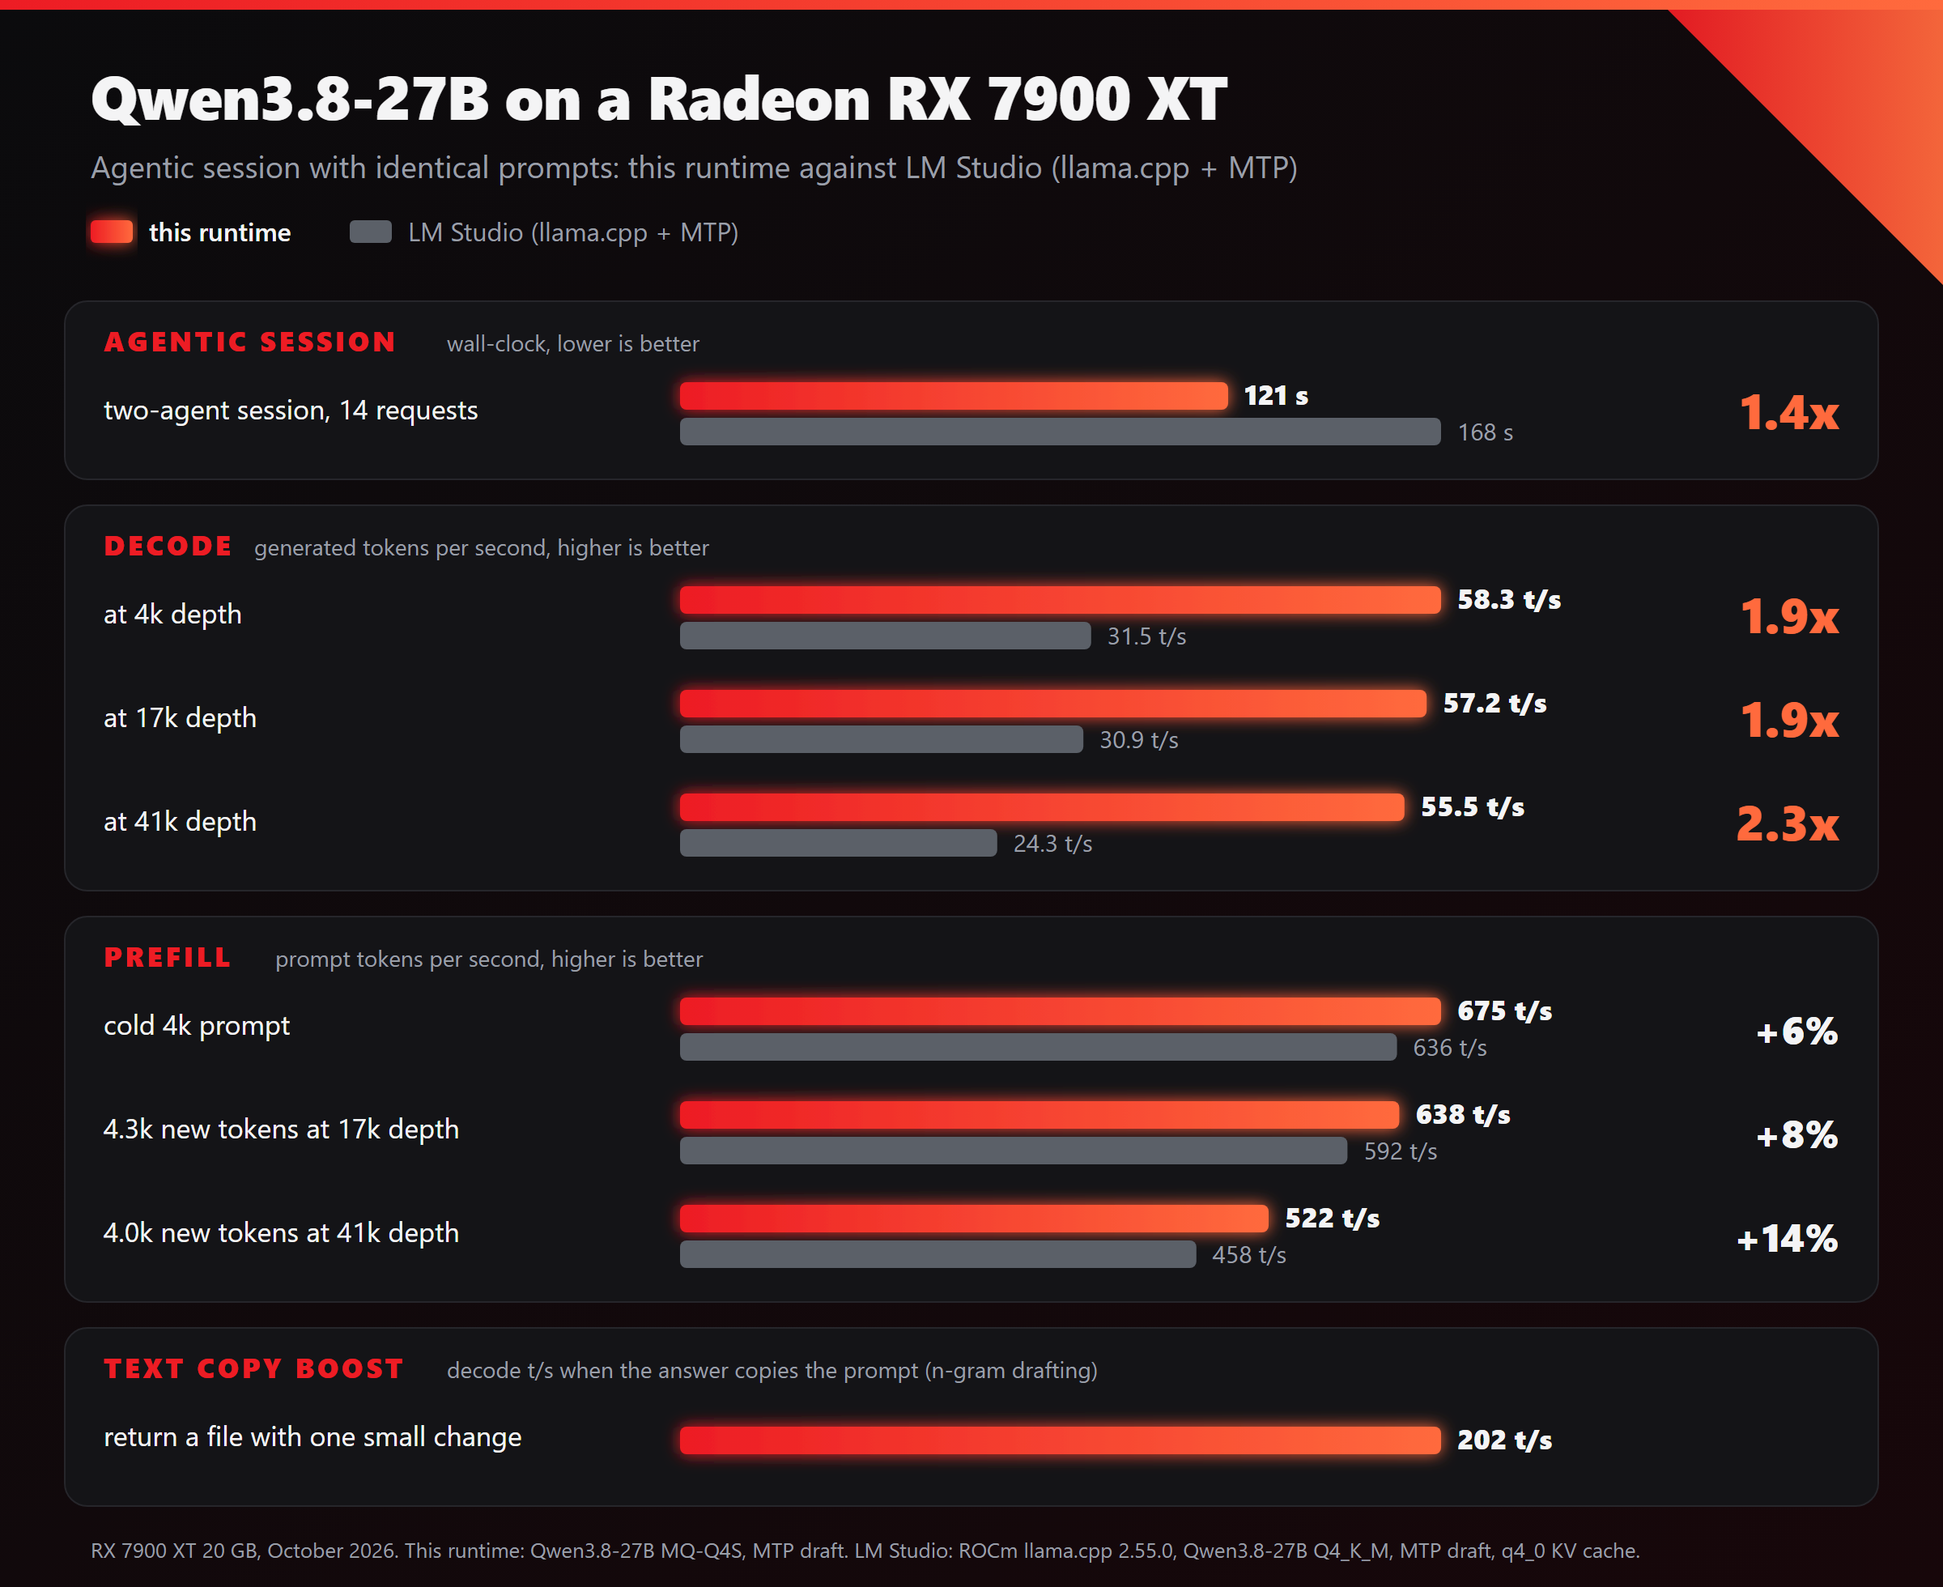
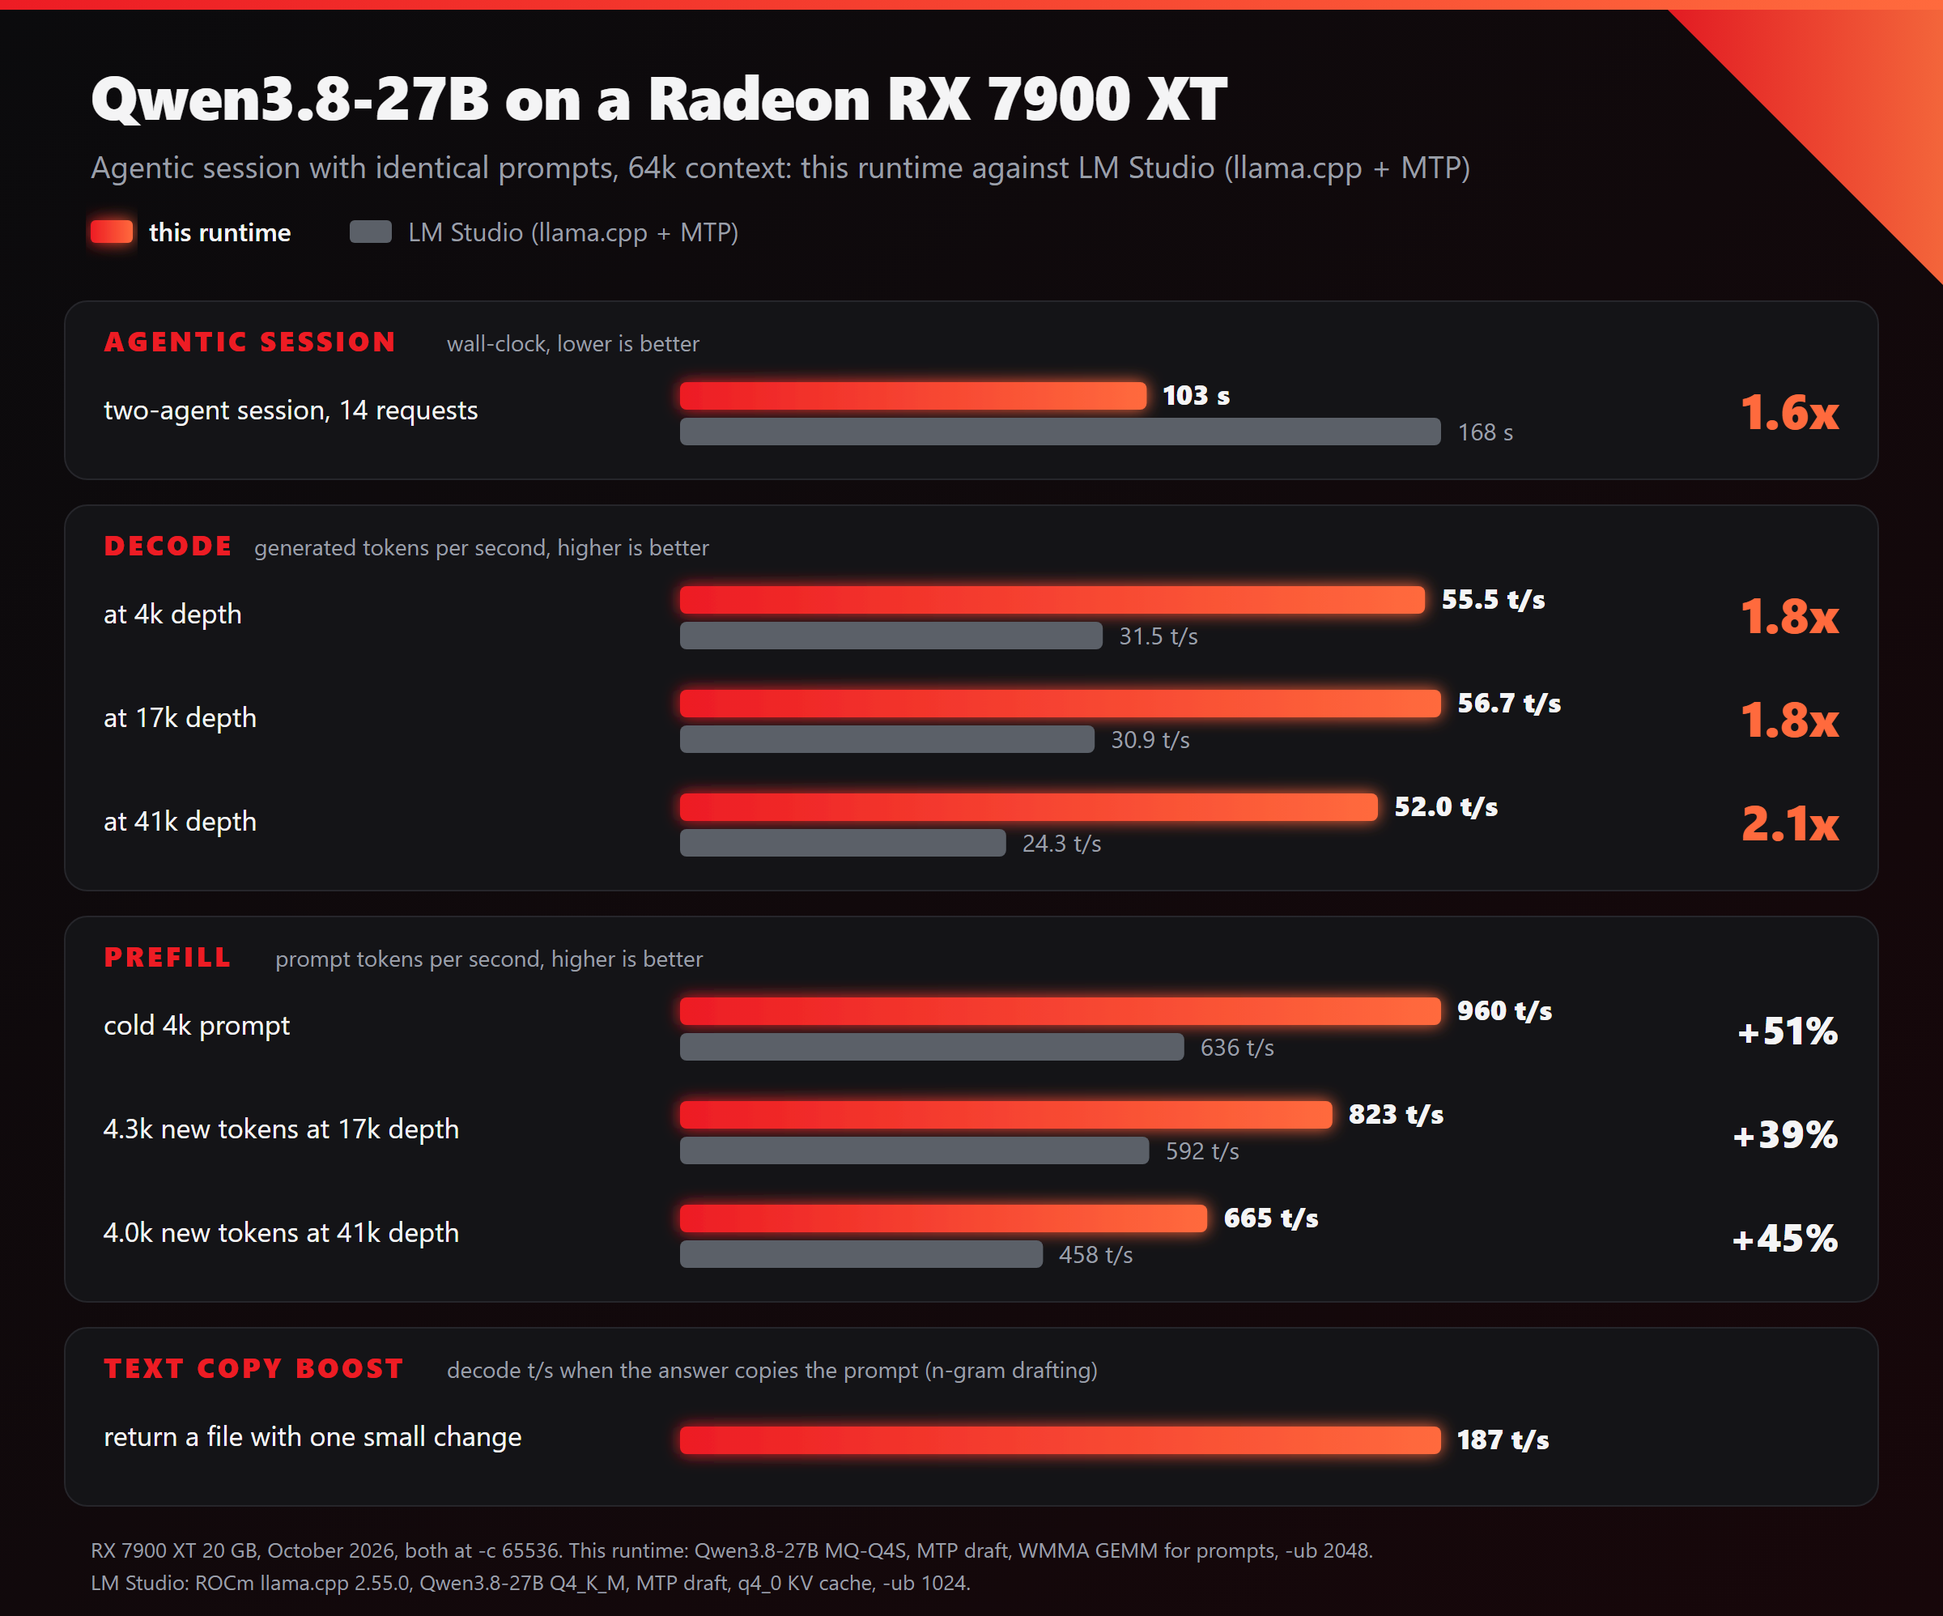
README: RDNA-FAST agent server; WMMA GEMM, 64k chart, 96k context
- new name and banner: RDNA-FAST agent server, built on ROCmFPX and llama.cpp
- highlight and section for the WMMA GEMM path, with its flags and env rows
- chart at -c 65536 -ub 2048, the context LM Studio ran at: session 103 s
  against 168 s, prefill 960 / 823 / 665 t/s, decode 55.5 / 56.7 / 52.0; the
  table also shows -c 106496 -ub 1024 (107 s)
- text copy boost 187 t/s as measured now, the n-gram shadow gate described
- recommended context 98304: 0.7 GB paged instead of 0.8 at 106496

diff --git a/README.md b/README.md
@@ -1,21 +1,29 @@
-![ROCmFPX — Max Performance. Open Power.](media/rocmfpx-banner.png)
+![RDNA-FAST — Agent server. Built for speed.](media/rdna-fast-banner.png)
 
-# Qwen3.8-27B for agents on a Radeon RX 7900 XT / XTX
+# RDNA-FAST agent server
 
-A light-speed `llama-server` runtime for **Qwen3.8-27B on a 20 GB RX 7900 XT**, built
-for **agentic work**: long tool-calling sessions, several agents sharing one
-GPU, ideal for Hermes.
+**Qwen3.8-27B for agents on a Radeon RX 7900 XT / XTX.** A light-speed
+`llama-server` runtime for **Qwen3.8-27B on a 20 GB RX 7900 XT**, built for
+**agentic work**: long tool-calling sessions, several agents sharing one GPU,
+ideal for Hermes. Built on [ROCmFPX](https://github.com/ROCmFPX/ROCmFPX) (its
+FP4/FP6 weight formats) and [llama.cpp](https://github.com/ggml-org/llama.cpp).
 
 
 ## Highlights
 
 - **Quicker agentic loops than LM Studio on the same card.** A two-agent session takes
-  121 s here, 168 s on stock llama.cpp with its MTP draft and 17.7 min without
-  it; decode is about twice as fast. [Numbers](#speed)
+  103 s here at the same 64k context (107 s at 106k),
+  168 s on stock llama.cpp with its MTP draft and 17.7 min without it; decode is
+  about twice as fast. [Numbers](#speed)
 - **Faster prefill AND decode.** The model's own MTP head drafts four tokens ahead: 50 t/s
   on prose and 73 t/s on code, against 35 t/s without it. Text copy boost: code
-  edits that copy the prompt run at about 200 t/s through n-gram drafting.
-- **100k tokens of context on a 20 GB card.** With Swift 1.5, a Qwen3.8-27B
+  edits that copy the prompt run at about 187 t/s through n-gram drafting.
+- **Prompts on the matrix cores at full speed.** Prompt-sized products of the FP4/FP6
+  weights run through a WMMA GEMM ([rocm_wmma_gemm](https://github.com/adelj88/rocm_wmma_gemm)
+  by Adel Johar) instead of the int8 path: 1.3-1.5x per product, cold prompts
+  +35% at 17k and +31% at 41k (923 and 815 t/s). Gated to gfx1100 and gfx1151.
+  [More](#prompts-through-a-wmma-gemm)
+- **96k tokens of context on a 20 GB card.** With Swift 1.5, a Qwen3.8-27B
   fine-tune, in our high-quality mixed Q4 quant at `reasoning_effort: low`: 25 of
   26 replayed turns of our own agent chats, 13.5 s per reply at the median.
   [Recipe](docs/rocmfpx/swift-1.5-qwen3.8-27b-mq-q4s.md)
@@ -48,19 +56,22 @@ Against stock llama.cpp on the same card: one scripted two-agent session with
 identical prompts (14 requests; an orchestrator grows from 4k to 41k tokens, a
 10k-token worker is called twice in between):
 
-| | stock llama.cpp | stock + MTP draft | this runtime |
-|---|---:|---:|---:|
-| **the session, wall-clock** | **1,065 s** | **168 s** | **121 s** |
-| prefill t/s, cold 4k prompt | 174 | 636 | 675 |
-| prefill t/s, 4.3k new tokens at 17k depth | 67 | 592 | 638 |
-| prefill t/s, 4.0k new tokens at 41k depth | 32 | 458 | 522 |
-| decode t/s at 4k depth | 32.3 | 31.5 | 58.3 |
-| decode t/s at 17k depth | 17.8 | 30.9 | 57.2 |
-| decode t/s at 41k depth | 10.6 | 24.3 | 55.5 |
-| decode t/s, text copy boost: code edit that copies the prompt | | | 202 |
+| | stock llama.cpp | stock + MTP draft | this runtime, 64k | this runtime, 106k |
+|---|---:|---:|---:|---:|
+| **the session, wall-clock** | **1,065 s** | **168 s** | **103 s** | **107 s** |
+| prefill t/s, cold 4k prompt | 174 | 636 | 960 | 882 |
+| prefill t/s, 4.3k new tokens at 17k depth | 67 | 592 | 823 | 800 |
+| prefill t/s, 4.0k new tokens at 41k depth | 32 | 458 | 665 | 639 |
+| decode t/s at 4k depth | 32.3 | 31.5 | 55.5 | 55.3 |
+| decode t/s at 17k depth | 17.8 | 30.9 | 56.7 | 55.1 |
+| decode t/s at 41k depth | 10.6 | 24.3 | 52.0 | 52.1 |
+| decode t/s, text copy boost: code edit that copies the prompt | | | 187 | 187 |
 
 <sub>October 2026. Stock is LM Studio's ROCm llama.cpp runtime 2.55.0 with
-`Qwen3.8-27B-Q4_K_M`, flash attention, a q4_0 KV cache and two sessions. The
+`Qwen3.8-27B-Q4_K_M`, flash attention, a q4_0 KV cache, two sessions,
+`-c 65536` and batch 2048 / 1024. This runtime at the same context with
+`-b 2048 -ub 2048` (the chart, mean of two runs), and at `-c 106496 -ub 1024`
+(mean of four runs), where `-ub 2048` does not fit. The
 edit row is the text copy boost, n-gram drafting (95 t/s without it); it was
 not measured on LM Studio.</sub>
 
@@ -78,8 +89,8 @@ Deep in a conversation, and on cold prompts at temperature 0:
 |---|---:|---:|
 | decode t/s at that depth | 54.7 | 55.9 |
 | decode t/s, verbatim copy of a passage | | 124 |
-| prefill t/s, cold prompt, average over the prompt | 679 | 621 |
-| the same without the MTP draft | 701 | 640 |
+| prefill t/s, cold prompt, average over the prompt | 923 | 815 |
+| the same with the int8 path for prompts (`ROCMFPX_WMMA_GEMM=0`) | 682 | 621 |
 
 Real agent traffic by context depth:
 
@@ -129,7 +140,7 @@ set GGML_HIP_FA_GQA6=1
 
 llama-server -m Swift-1.5-Qwen3.8-27B-ROCMFPX-MQ-Q4S.gguf --mmproj mmproj-Qwen3.8-27B-f16.gguf ^
   -dev ROCm0 -ngl 999 -fa on --jinja --load-mode dio --gpu-keepalive-ms 2000 ^
-  -c 106496 -np 2 --kv-unified --kv-unified-reserve 12288 --no-cache-idle-slots ^
+  -c 98304 -np 2 --kv-unified --kv-unified-reserve 12288 --no-cache-idle-slots ^
   -ctk q4_0 -ctv q4_0 -ctkd q4_0 -ctvd q4_0 -b 2048 -ub 1024 --no-mmproj-offload ^
   --ctx-checkpoints 8 --checkpoint-min-step 2048 ^
   --cache-ram 0 --cache-disk D:\llama-cache --cache-disk-limit 65536 --cache-disk-checkpoints 4 ^
@@ -146,13 +157,13 @@ Flags:
 
 | flag | why |
 |---|---|
-| `-c 106496`, `-ctk q4_0 -ctv q4_0` | what a 20 GB card holds with these settings: 18.9 GB resident, nothing paged. KV costs ~18 KB/token. Whatever does not fit, Windows silently pages to system RAM. |
+| `-c 98304`, `-ctk q4_0 -ctv q4_0` | about what a 20 GB card holds with these settings: 18.7 GB resident, 0.7 GB paged. KV costs ~18 KB/token. Whatever does not fit, Windows silently pages to system RAM; at 106,496 (18.9 GB + 0.8 GB paged) cold prompts are 2-3% slower than at 65,536, which pages nothing. |
 | `-np 2 --kv-unified --kv-unified-reserve 12288` | two slots share one pool instead of splitting it. The reserve admits a second request only while both can still generate 12k tokens, else it waits in the queue. See [Several slots on one GPU](#several-slots-on-one-gpu). |
 | `--no-cache-idle-slots` | keeps the idle conversation resident; the default saves and clears it at every new task, which leaves one live conversation. |
 | `--no-mmproj-offload` | the 0.9 GB vision projector was the whole paged share at two slots. Images cost 7-12 s to the first token instead of 3-5 s. |
-| `-ub 1024` | prefill +6% at 17k and +11% at 41k over 256, for 0.3 GB more VRAM; 512 gives +4% and +8% for 0.1 GB. Decode does not change with it (55.7 against 56.0 t/s on identical text). |
+| `-ub 1024` | prefill +6% at 17k and +11% at 41k over 256, for 0.3 GB more VRAM; 512 gives +4% and +8% for 0.1 GB. Decode does not change with it (55.7 against 56.0 t/s on identical text). The WMMA GEMM for prompts takes batches of 512 tokens or more only, so at `-ub 256` it never runs. `-ub 2048` does not fit beside `-c 106496` on 20 GB (2.3 GB paged, prefill falls to 162 t/s); at `-c 65536` it fits but gains only 1-2% on cold prompts (949 / 836 against 932 / 821 t/s at 17k / 41k). |
 | `--spec-type draft-mtp`, `--spec-draft-n-max 4` | +45% decode on prose, +112% on code, for about 0.7 GB of VRAM and 3% of prefill speed. The draft head has its own KV cache; for prompt tokens only its K and V are computed, nothing else of the block is ever read. |
-| `--spec-type "...,ngram-map-k4v"` | text copy boost: n-gram drafting in front of MTP. Where the last tokens repeat an earlier place of the context, the continuation found there is drafted, otherwise MTP drafts as before. A draft has 4 tokens until four in a row were accepted in full, then up to 24, so a match that is only a phrase or a path costs no checkpoint. Code edits that copy the prompt 95 -> 202 t/s, a verbatim copy at 41k 83 -> 124 t/s. Quote the value in a .cmd file: cmd splits arguments at commas. |
+| `--spec-type "...,ngram-map-k4v"` | text copy boost: n-gram drafting in front of MTP. Where the last tokens repeat an earlier place of the context, the continuation found there is drafted, otherwise MTP drafts as before. Each match first makes a 4-token probe that is not sent: MTP drafts that pass, and the probe is scored against what comes out. Once six probes in a row would have been accepted in full, n-gram drafts of up to 24 tokens replace MTP until one is not accepted in full, so a match that is only a phrase or a path costs neither a pass nor a checkpoint. On two days of agent traffic (783 requests) this saved 4.6-6.0% of decode time, and 5-6% of the requests came out slower, against 12-40% when the probes were sent. Code edits that copy the prompt 95 -> 187 t/s, a verbatim copy at 41k 83 -> 124 t/s. Quote the value in a .cmd file: cmd splits arguments at commas. |
 | `--no-spec-ngram-map-ramp` | not set here. Full-length n-gram drafts (48 tokens) from the first match: 268 t/s on code edits and 180 t/s on the copy at 41k, but slower on answers that only share phrases with the context, where a wrong long draft costs a checkpoint restore and a replay pass. |
 | `--ctx-checkpoints 8` | kept in host RAM, ~200 MiB each. When the list is full, the one whose removal leaves the smallest gap is dropped; the one at the first user message never is. |
 | `--cache-disk` | conversations and their checkpoints are kept on SSD. See [The SSD prompt cache](#the-ssd-prompt-cache). |
@@ -170,7 +181,10 @@ Environment variables:
 | `LLAMA_MAX_QUEUED=3` | a request is rejected once three are already waiting, so a client can fall back to another server instead of queueing. |
 | `ROCMFPX_DRAFT_VOCAB=24576` | a drafted token is scored against 24,576 candidate tokens instead of all 248,320: half fixed, half the main model's own top tokens at the previous position, per slot. The main model still verifies each drafted token against the full vocabulary. Measured at 16,384: 0.12 ms instead of 1.9 ms per drafted token, decode +9% on a short context and +3 to 5% at 41k, a verbatim copy drafts slightly less (acceptance 0.99 to 0.96), ordinary text the same. 24,576 accepts 3.50 drafted tokens per verify pass against 3.43 at 16,384, at the same speed. |
 | `GGML_HIP_FA_GQA6=1` | attention for decode batches of 1 to 5 tokens: one GPU block per KV head with all six of its query heads, instead of three groups of two and a batch padded to 8. Decode +10 to 12% at 41k, +2 to 6% at 17k, nothing at a short context. Qwen3.5/3.8-27B on RDNA only (head size 256, 24 query heads on 4 KV heads). |
-| `ROCMFPX_MTP_LEAN_RESERVE` | not set here, on by default: the MTP draft context reserves memory for the two shapes it runs (the K/V-only pass over prompt tokens and a one-token draft step), 80 MiB instead of 784 MiB, which is what lets `-c 106496` fit. `=0` restores the full reserve. |
+| `ROCMFPX_MTP_LEAN_RESERVE` | not set here, on by default: the MTP draft context reserves memory for the two shapes it runs (the K/V-only pass over prompt tokens and a one-token draft step), 80 MiB instead of 784 MiB, which is what lets `-c 98304` fit. `=0` restores the full reserve. |
+| `ROCMFPX_NGRAM_SHADOW`, `ROCMFPX_NGRAM_PROBES` | not set here: `ROCMFPX_NGRAM_SHADOW=0` sends the n-gram probes in place of MTP's draft instead of scoring them in the background, `ROCMFPX_NGRAM_PROBES` sets how many probes in a row must hold before long n-gram drafts start (6). |
+| `ROCMFPX_WMMA_GEMM` | not set here, on by default on gfx1100 and gfx1151: prompt-sized FP4/FP6 products through the WMMA GEMM. `=0` turns it off. See [Prompts through a WMMA GEMM](#prompts-through-a-wmma-gemm). |
+| `ROCMFPX_WMMA_GEMM_MIN_BATCH`, `ROCMFPX_WMMA_GEMM_SCRATCH_MB` | not set here: the smallest batch that takes the WMMA GEMM (512) and the size of its f16 weight scratch (64 MB). |
 
 ## Other cards
 
@@ -196,9 +210,45 @@ the stock behaviour.
   - `GGML_HIP_FA_GQA6=1` (six query heads per attention block) is opt-in and
     runs on RDNA cards only. Its thread layouts and block counts were tuned on
     gfx1100.
+  - The WMMA GEMM for prompts is built and used only for gfx1100 (RX 7900 XT,
+    XTX, GRE) and gfx1151, the targets its configurations are tuned for; every
+    other card keeps the int8 path.
 - **Settings.** `-c`, `-ub 1024` and the VRAM split in this README are sized
   for 20 GB of VRAM. The speed tables are for the RX 7900 XT and will differ on
   other cards.
+
+## Prompts through a WMMA GEMM
+
+Prompt processing is mostly matrix products of the FP4 weights: 62-72% of a
+1,024-token batch at 0-41k depth, attention takes most of the rest. The int8
+path (weights unpacked to int8, activations quantized to 8 bits, int8 WMMA)
+does 40-44 TFLOPS on the model's shapes; an FP16 WMMA GEMM tuned for RDNA3
+does 76-92 on the same shapes. So for batches of 512 tokens or more, the weight
+rows are unpacked to f16 in chunks into a 64 MB scratch, the activations are
+converted to f16, and [rocm_wmma_gemm](https://github.com/adelj88/rocm_wmma_gemm)
+(Adel Johar, MIT, in `vendor/rocm_wmma_gemm`) computes the product with f32
+accumulation.
+
+| one matrix product, 1,024 tokens | int8 path | WMMA GEMM |
+|---|---:|---:|
+| FP4 weights, the four shapes of the model | 41-45 TFLOPS | 60-62 TFLOPS (1.34-1.49x) |
+| FP6 weights | 29-31 TFLOPS | 51-52 TFLOPS (1.6-1.8x) |
+
+On the model, cold prompts go from 682 to 923 t/s at 17k and from 621 to 815
+t/s at 41k. Decode does not change (the same text at temperature 0: 56.1 and
+58.6 t/s at 17k). The scratch costs 0.24 GB of VRAM and nothing more is paged.
+f16 activations are more precise than the 8-bit ones of the int8 path; the
+needle test, the two-slot test and 118 of 118 matrix product tests against the
+CPU pass. Below 512 tokens the unpacking costs about what the GEMM saves, so
+smaller batches stay on the int8 path.
+
+The build makes one library per GPU architecture, `rocm_wmma_gemm_<arch>_accf32`,
+next to the other binaries (`ggml/src/ggml-hip/wmma-gemm.cmake`; Python 3 is
+needed at configure time to generate its kernels, `-DGGML_HIP_WMMA_GEMM=OFF`
+skips it). Without that library the int8 path runs as before. The gfx1100
+configuration adds entries for this model's products at 1,024 and 2,048 rows,
+tuned with the library's own tuner; against the closest upstream entries they
+move prefill by 3% or less.
 
 ## The SSD prompt cache
 
@@ -659,3 +709,4 @@ The `llama.cpp` project is build on top of the [ggml](https://github.com/ggml-or
 - [nlohmann/json](https://github.com/nlohmann/json) - Single-header JSON library, used by various tools/examples - MIT License
 - [mackron/miniaudio](https://github.com/mackron/miniaudio) - Single-header audio format decoder, used by multimodal subsystem - Public domain
 - [sheredom/subprocess.h](https://github.com/sheredom/subprocess.h) - Single-header process launching solution for C and C++ - Public domain
+- [adelj88/rocm_wmma_gemm](https://github.com/adelj88/rocm_wmma_gemm) - WMMA GEMM for RDNA3/RDNA3.5, used for prompt-sized FP4/FP6 matrix products on gfx1100 and gfx1151 - MIT license
